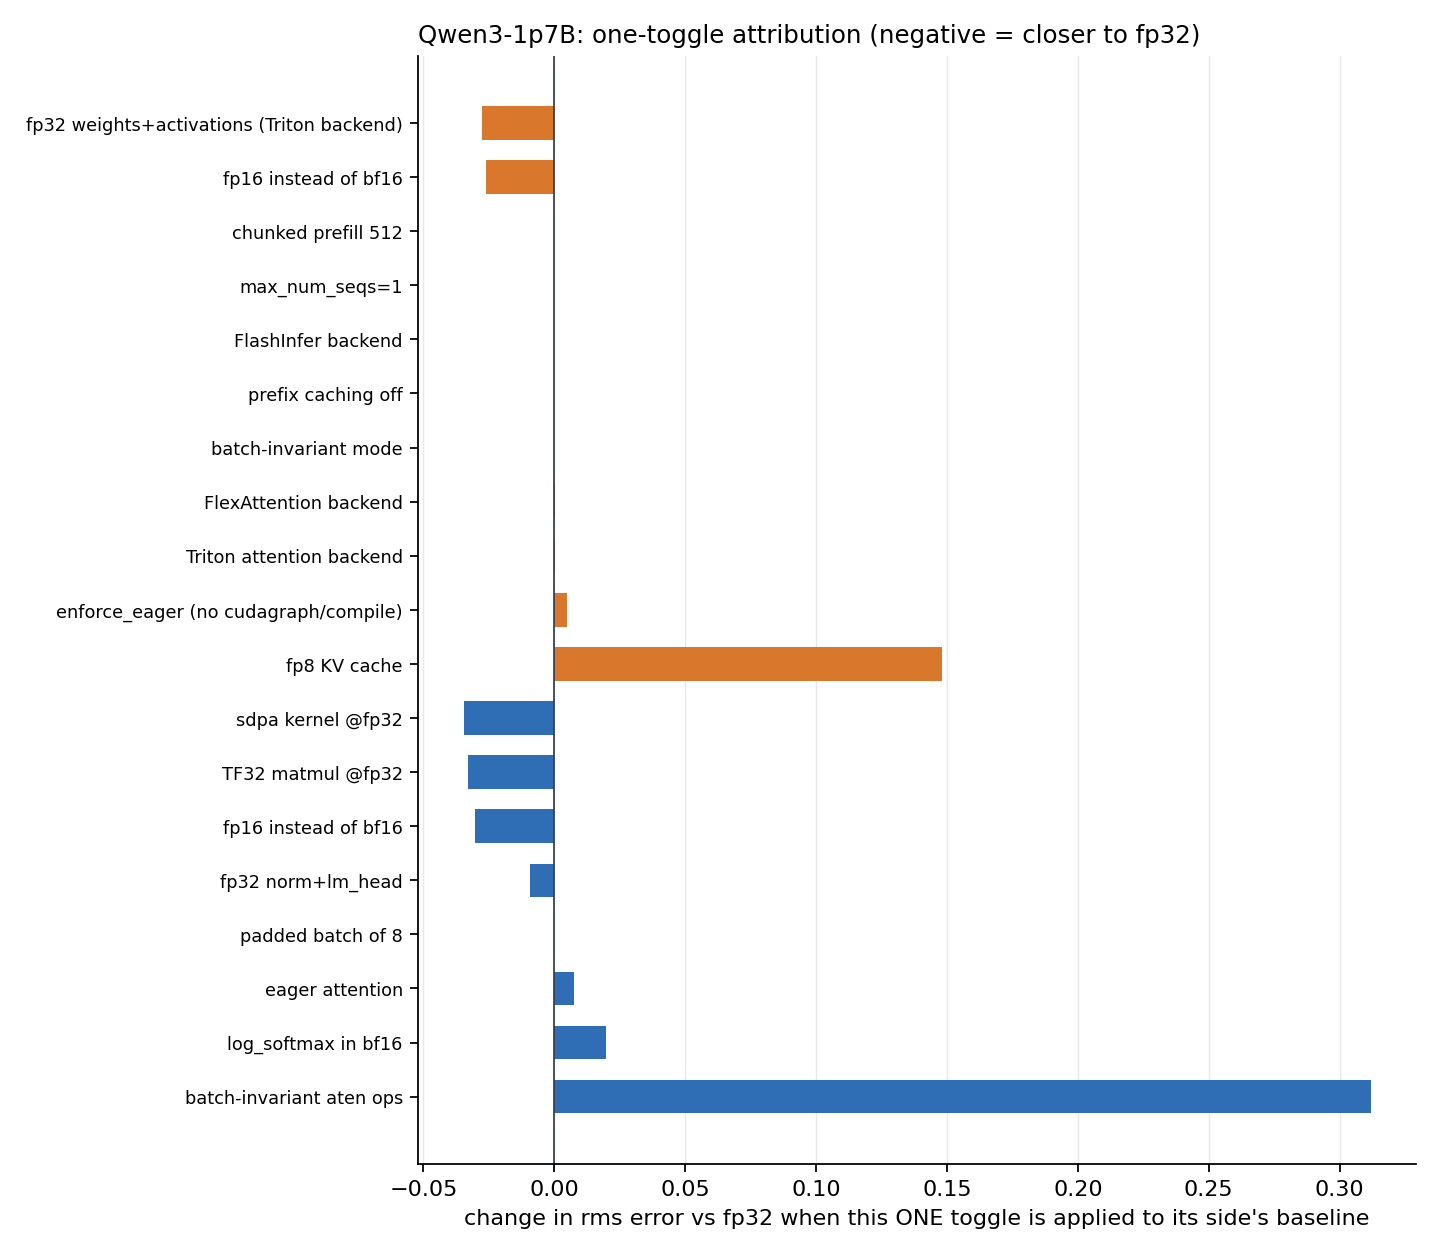
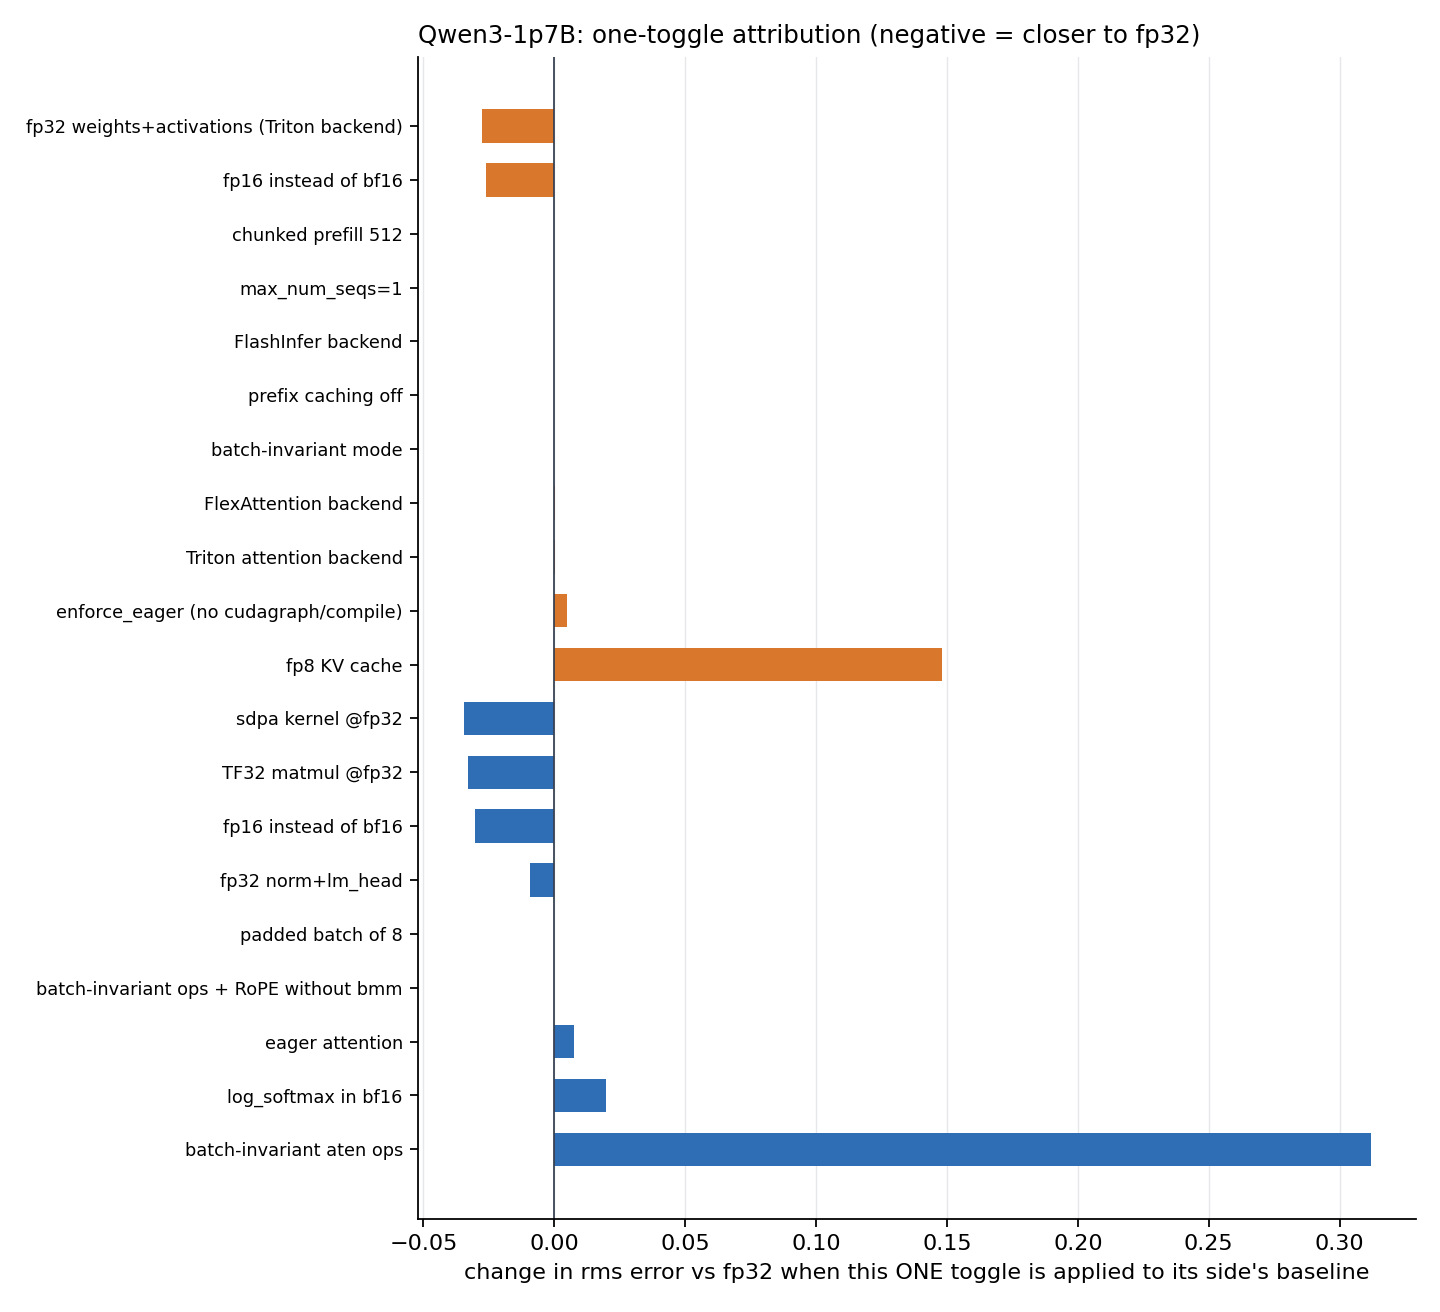
Measurement report with fixed-BI view: BI trainer error equals plain bf16 once RoPE avoids bmm
Claude-Session: https://claude.ai/code/session_014xVrDZFtAThYqD1ufGs9Sm

diff --git a/docs/RESULTS_MEASURE_Qwen3-1p7B.md b/docs/RESULTS_MEASURE_Qwen3-1p7B.md
@@ -34,6 +34,7 @@ Noise floor (mean abs) = 3.309e-06; gate M1 (< 0.001): **PASS**
 | vllm_bf16_triton | vllm | Triton attention backend | 0.0300 | 0.0107 | -0.0003332 | 0.1391 | 1.2924 | 0.001648 |
 | hf_bf16_sdpa_bs8 | hf | padded batch of 8 | 0.0345 | 0.0120 | -0.0005568 | 0.1578 | 1.5010 | 0.003064 |
 | hf_bf16_sdpa_bs1 | hf | trainer baseline | 0.0346 | 0.0121 | -0.0005879 | 0.1587 | 1.4206 | 0.003173 |
+| hf_bf16_sdpa_bs1_bi_ropefix | hf | batch-invariant ops + RoPE without bmm | 0.0346 | 0.0121 | -0.0006528 | 0.1579 | 1.9834 | 0.003153 |
 | vllm_bf16_fa_eager | vllm | enforce_eager (no cudagraph/compile) | 0.0348 | 0.0120 | -0.0006012 | 0.1579 | 2.4626 | 0.003187 |
 | hf_bf16_eager_bs1 | hf | eager attention | 0.0420 | 0.0141 | -0.000795 | 0.1880 | 2.7227 | 0.006239 |
 | hf_bf16_sdpa_bs1_nativelogits | hf | log_softmax in bf16 | 0.0542 | 0.0266 | 0.004794 | 0.2003 | 1.4306 | 0.006623 |
@@ -50,7 +51,8 @@ Noise floor (mean abs) = 3.309e-06; gate M1 (< 0.001): **PASS**
 | batch-invariant: prefill vs decode (vllm_bf16_fa_bi vs vllm_sample @bi corpus) | 0 | 0 | 0 | 0 | 0 | 1.0000 | 0 |
 | fp16 both sides (hf_fp16_sdpa_bs1 vs vllm_fp16_fa) | 0.005698 | 0.001754 | - | 5.186e-06 | 0 | 0.9525 | 0.6338 |
 | fp32 both sides (kernel-only residual) (hf_fp32_eager vs vllm_fp32_triton) | 0.002358 | 0.0007256 | - | 0 | 0 | 0.9912 | 0.2733 |
-| batch-invariant both sides (hf_bf16_sdpa_bs1_bi vs vllm_bf16_fa_bi) | 0.3476 | 0.0248 | - | 0.0127 | 0.0003293 | 0.1670 | 158.0875 |
+| batch-invariant both sides (broken RoPE) (hf_bf16_sdpa_bs1_bi vs vllm_bf16_fa_bi) | 0.3476 | 0.0248 | - | 0.0127 | 0.0003293 | 0.1670 | 158.0875 |
+| batch-invariant both sides, RoPE fixed (hf_bf16_sdpa_bs1_bi_ropefix vs vllm_bf16_fa_bi) | 0.0450 | 0.0139 | - | 0.008243 | 2.204e-05 | 0.0146 | 6.6419 |
 | fp32 head on trainer only (hf_bf16_sdpa_bs1_fp32head vs vllm_bf16_fa) | 0.0384 | 0.0132 | - | 0.00468 | 7.779e-06 | 0.1989 | 5.5493 |
 
 ### Trainer-vs-sampler gap by reference token probability
@@ -89,6 +91,7 @@ Baseline gap hf_bf16_sdpa_bs1 vs vllm_bf16_fa: rms 0.0449, mean abs 0.0139, outs
 | enforce_eager (no cudagraph/compile) (vllm_bf16_fa_eager) | vllm | 0.0420 | -0.00294 | 0.0348 | 0.004936 |
 | Triton attention backend (vllm_bf16_triton) | vllm | 0.0452 | 0.0002553 | 0.0300 | 0.0001796 |
 | FlexAttention backend (vllm_bf16_flex) | vllm | 0.0452 | 0.0003408 | 0.0299 | 9.979e-05 |
+| batch-invariant ops + RoPE without bmm (hf_bf16_sdpa_bs1_bi_ropefix) | hf | 0.0450 | 4.678e-05 | 0.0346 | 3.358e-05 |
 | batch-invariant mode (vllm_bf16_fa_bi) | vllm | 0.0449 | 2.711e-09 | 0.0298 | 1.878e-09 |
 | prefix caching off (vllm_bf16_fa_noprefix) | vllm | 0.0449 | 0 | 0.0298 | 0 |
 | FlashInfer backend (vllm_bf16_flashinfer) | vllm | 0.0450 | 6.691e-05 | 0.0298 | -7.888e-06 |
